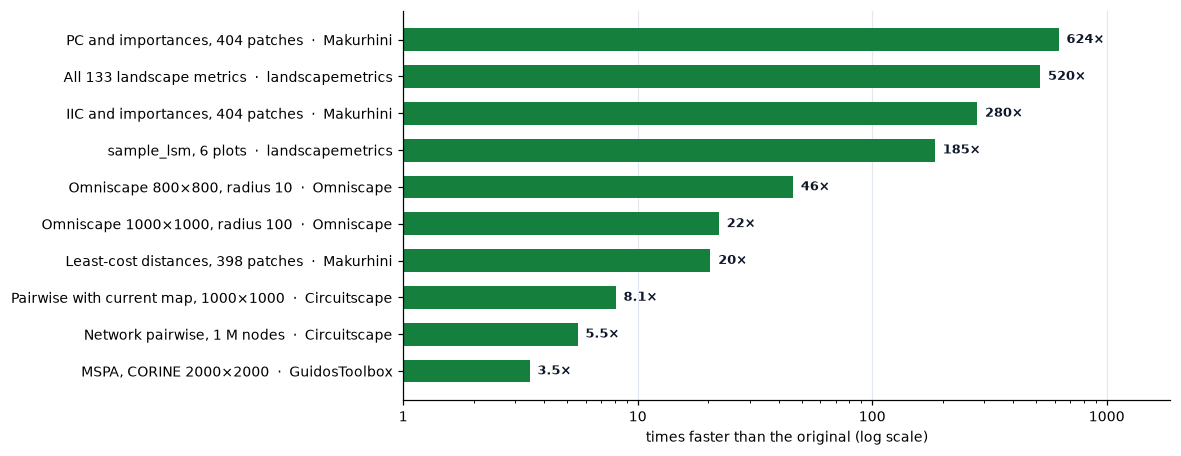
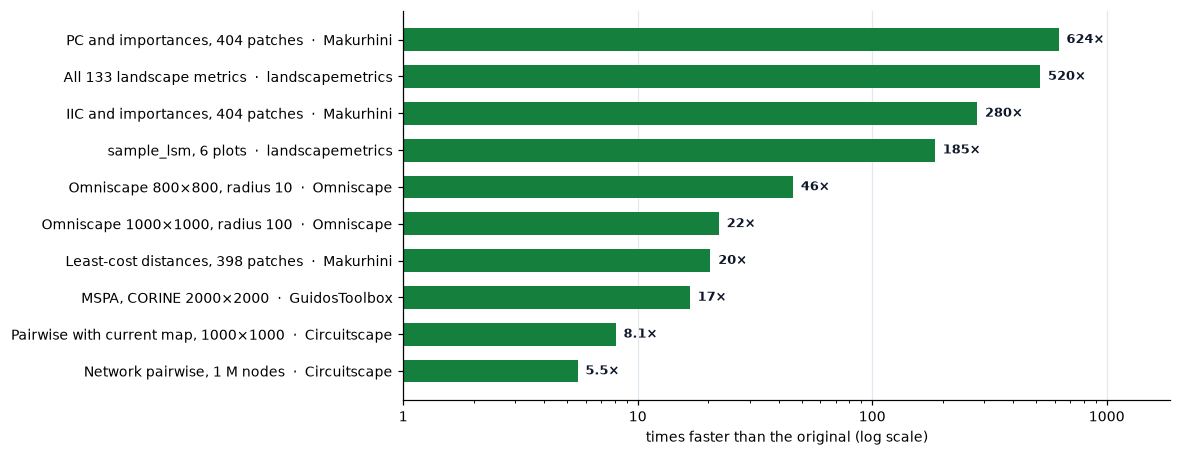
chore: release 0.53.0

diff --git a/tools/make_doc_figures.py b/tools/make_doc_figures.py
@@ -362,7 +362,7 @@ def change_maps():
 
 # Timings of docs/benchmarks.md: (task, reference tool, original [s], landschaft [s]).
 BENCHMARKS = [
-    ("MSPA, CORINE 2000×2000", "GuidosToolbox", 1.21, 0.35),
+    ("MSPA, CORINE 2000×2000", "GuidosToolbox", 1.30, 0.078),
     ("All 133 landscape metrics", "landscapemetrics", 15.6, 0.03),
     ("sample_lsm, 6 plots", "landscapemetrics", 3.7, 0.02),
     ("PC and importances, 404 patches", "Makurhini", 10.6, 0.017),

diff --git a/README.md b/README.md
@@ -14,8 +14,8 @@ FRAGSTATS, Conefor / Makurhini, Circuitscape / Omniscape).
 📘 **Documentation website:** built from `docs/` with `mkdocs build` (see
 [Building these docs](docs/about/docs.md)); open `site/index.html`.
 
-**Current Version (v0.52.0):** Complete reimplementation of all major GuidosToolbox tools:
-* **MSPA**: Morphological Spatial Pattern Analysis (bit-identical to GTB `mspa` v2.3, 5-7x faster), and GTB's MSPA Tiling for maps larger than memory (out of core, identical to GTB).
+**Current Version (v0.53.0):** Complete reimplementation of all major GuidosToolbox tools:
+* **MSPA**: Morphological Spatial Pattern Analysis (bit-identical to GTB `mspa` v2.3, 10-17x faster), and GTB's MSPA Tiling for maps larger than memory (out of core, identical to GTB).
 * **SPA2/3/5/6**: Simplified Pattern Analysis (identical to GTB).
 * **GTN & Connectivity**: Topological Network Components (ECA, DOC), Importance (dPC), and Conefor Sensinode inputs.
 * **Fragmentation & Distance**: Forest Area Density (single & multiscale FAD, $O(1)$ integral images), FOS (Fixed Observation Scale: FAD/FED/FAC in 5 or 6 classes, binary or grayscale input, identical to GTB), Euclidean Distance Transform ($O(N)$), and Directional Spatial Entropy.
@@ -254,41 +254,54 @@ Parameter correspondence with GuidosToolbox:
 ## Versioning
 
 landschaft follows [Semantic Versioning](https://semver.org/); the current version is
-**0.52.0** (`ls.__version__`). While below 1.0, minor versions may change the API.
+**0.53.0** (`ls.__version__`). While below 1.0, minor versions may change the API.
 Changes are listed in [CHANGELOG.md](CHANGELOG.md).
 
 ## Performance
 
-`python tools/benchmark.py --exe <mspa executable>` (bundled example maps), on a laptop Ryzen 7 7730U
-(8 cores, 15 W). The original's time includes its TIFF I/O. landschaft's is in memory:
+`python tools/benchmark.py --exe <mspa executable>` (bundled example maps), on a desktop
+Intel Core i5-13600K (14 cores, 20 threads), both programs on the performance cores,
+the fastest of 10 alternating runs. The original's time includes its TIFF I/O.
+landschaft's is in memory:
 
-| map | FGconn_EdgeWidth | GTB mspa | landschaft, 1 thread | landschaft, 16 threads | identical |
+| map | FGconn_EdgeWidth | GTB mspa | landschaft, 1 thread | landschaft, 19 threads | identical |
 |---|---|---|---|---|---|
-| GTB input.tif 1000×1000 | 8_1 | 0.64 s | 0.11 s | 0.09 s | yes |
-| GTB input.tif 1000×1000 | 4_20 | 0.97 s | 0.14 s | 0.13 s | yes |
-| CORINE forest 2000×2000 | 8_1 | 1.64 s | 0.33 s | 0.29 s | yes |
-| CORINE forest 2000×2000 | 8_5 | 2.04 s | 0.37 s | 0.38 s | yes |
-| CORINE forest 2000×2000 | 4_20 | 2.48 s | 0.45 s | 0.36 s | yes |
+| GTB input.tif 1000×1000 | 8_1 | 0.46 s | 0.040 s | 0.029 s | yes |
+| GTB input.tif 1000×1000 | 8_5 | 0.56 s | 0.065 s | 0.054 s | yes |
+| GTB input.tif 1000×1000 | 4_20 | 0.68 s | 0.079 s | 0.068 s | yes |
+| CORINE forest 2000×2000 | 8_1 | 1.30 s | 0.095 s | 0.078 s | yes |
+| CORINE forest 2000×2000 | 8_5 | 1.53 s | 0.151 s | 0.137 s | yes |
+| CORINE forest 2000×2000 | 4_20 | 1.70 s | 0.213 s | 0.174 s | yes |
+
+A 6000×6000 map (CORINE repeated 3×3) takes GTB 20-26 s and landschaft 1.4-2.3 s.
 
 Where the speed comes from, and why threads help less than one might expect:
 
 * Every Euclidean distance transform in MSPA is only compared with a threshold.
   `sqrt(float(d²)) <= s` is monotone in `d²`, so it is replaced by the exact
-  integer test `d² <= T`. That test is a dilation by a digital disk, computed
-  with clipped column distances and two sweeps per row, instead of a full EDT.
+  integer test `d² <= T`: a dilation by a digital disk. For the usual radii it
+  runs on rows packed into 64-bit words (shift-ORs over the disk's rows, 64 pixels
+  per operation); large radii use clipped column distances and two sweeps per row.
+* The per-pixel operations between the stages (masks, saturated arithmetic,
+  shifts, thresholds) use SSE2 on 16 pixels at a time.
+* The intermediate images reuse each other's memory within a call instead of
+  asking the operating system for fresh pages each time.
+* With edge width 1 the geodesic distance cannot select any pixel (every reached
+  pixel is at least 1 away, above the threshold), so it is skipped; otherwise
+  only the pixels the front reaches are touched.
 * Hole filling, reconstruction and labelling use run-length union-find instead of
   pixel queues.
 * The geodesic distance, the anchored thinning and the watershed are
   *order-dependent* FIFO propagations. Their queue order decides ties, so they
-  stay sequential to remain bit-exact. They are the critical path of one image.
-* Independent stages run concurrently as tasks. OpenMP data-parallel loops are
-  enabled only for maps above 16 Mpx: for smaller maps, the short parallel regions
-  cost more than they save, because idle OpenMP workers keep spinning and slow
-  down the sequential stages that follow.
+  stay sequential to remain bit-exact. They are the critical path of one image,
+  which is why more threads save only 10-30 % on one map.
+* Independent stages run concurrently as tasks; OpenMP data-parallel loops run
+  for maps above 16 Mpx (1 Mpx for heavy scans).
 
-For many images the throughput scales like independent processes. On the laptop
-above, 16 workers give about 4× (the CPU drops its clock under all-core load).
-Expect more on workstations and servers.
+For many images the throughput scales like independent processes: use
+`mspa_batch`. On hybrid CPUs (performance and efficiency cores) Windows may move a
+busy background process to the efficiency cores, which roughly doubles any run
+time; benchmark in the foreground and compare runs made side by side.
 
 ## Exactness and tests
 
@@ -346,13 +359,11 @@ Set `LANDSCHAFT_PROFILE=1` to print the time of every MSPA stage.
 ## Limitations
 
 * MSPA is a global operator: the whole map must fit in memory (≈30 bytes/pixel).
-  There is no tiling yet. GTB's "MSPA tiling" is approximate by design.
+  `mspa_tiled` reproduces GTB's MSPA Tiling for larger maps, which is approximate
+  near the tile seams by design.
 * The original stores geodesic offsets in 16-bit integers and distances in 32 bits.
   landschaft reproduces them. For maps with a side of 46,000 px or more, the fast
   distance path is disabled and the original arithmetic is used.
-* Eigen is not used yet: MSPA's hot paths are queue propagations and byte
-  operations that the compiler already vectorises. Eigen will be considered for
-  GTB tools with floating-point kernels (moving windows, distances, costs).
 
 ## License and credits
 

diff --git a/docs/benchmarks.md b/docs/benchmarks.md
@@ -39,9 +39,10 @@ tables below (logarithmic scale). The original's time is its own run,
 including its input and output where noted; landschaft is timed in memory.
 
 !!! info "How these were measured"
-    The MSPA table was measured for this page with `tools/benchmark.py` on a
+    The MSPA table was measured with `tools/benchmark.py` (version 0.53) on a
     desktop Intel Core i5-13600K (14 cores, 20 threads, 64 GB, Windows 11),
-    the best of several runs. The other timings were recorded in the
+    the fastest of 10 alternating runs, with both programs kept on the
+    performance cores. The other timings were recorded in the
     [changelog](about/changelog.md) when each tool was written, with the
     version given ("Since"). Times depend on the computer, the map and the options: treat them as
     orders of magnitude.
@@ -51,22 +52,33 @@ including its input and output where noted; landschaft is timed in memory.
 Against GuidosToolbox's `mspa` executable (v2.3, whose time includes reading
 and writing its TIFF files) on its sample map and on the CORINE forest map;
 landschaft with 1 thread and with the default 19. Every output was compared
-pixel by pixel.
+pixel by pixel. landschaft is 10 to 17 times faster.
 
 | Map | Connectivity, edge width | GuidosToolbox | 1 thread | 19 threads | Identical |
 |---|---|---|---|---|---|
-| Sample, 1000² | 8, 1 | 0.45 s | 0.09 s | 0.08 s | yes |
-| Sample, 1000² | 8, 5 | 0.55 s | 0.11 s | 0.15 s | yes |
-| Sample, 1000² | 4, 20 | 0.66 s | 0.20 s | 0.16 s | yes |
-| CORINE, 2000² | 8, 1 | 1.21 s | 0.49 s | 0.35 s | yes |
-| CORINE, 2000² | 8, 5 | 1.41 s | 0.59 s | 0.41 s | yes |
-| CORINE, 2000² | 4, 20 | 1.69 s | 0.65 s | 0.49 s | yes |
+| Sample, 1000² | 8, 1 | 0.46 s | 0.040 s | 0.029 s | yes |
+| Sample, 1000² | 8, 5 | 0.56 s | 0.065 s | 0.054 s | yes |
+| Sample, 1000² | 4, 20 | 0.68 s | 0.079 s | 0.068 s | yes |
+| CORINE, 2000² | 8, 1 | 1.30 s | 0.095 s | 0.078 s | yes |
+| CORINE, 2000² | 8, 5 | 1.53 s | 0.151 s | 0.137 s | yes |
+| CORINE, 2000² | 4, 20 | 1.70 s | 0.213 s | 0.174 s | yes |
+
+At scale, the CORINE map repeated 3 × 3 (6000 × 6000, 36 million pixels)
+takes GuidosToolbox 20 to 26 s and landschaft 1.4 to 2.3 s, again with
+identical outputs.
 
 MSPA's longest steps (geodesic distances, thinning, watershed) are ordered
-propagations that must run in sequence to stay bit-exact, so one map gains
-little from many threads, and on a small map they can even cost a little time. Many maps gain fully: run them side by side with
+propagations that must run in sequence to stay bit-exact, so one map takes
+only 10 to 30 % less time with more threads. Many maps gain fully: run them side by side with
 [`mspa_batch`](api/batch.md#landschaft.mspa_batch) or
 [`batch`](api/batch.md#landschaft.batch).
+
+!!! note "Hybrid processors"
+    On processors with performance and efficiency cores (Intel 12th
+    generation and later), Windows may move a busy process to the slower
+    efficiency cores, especially when it runs in the background; any program
+    then takes up to twice as long. Keep the terminal in the foreground for
+    timings, and compare runs made side by side.
 
 ### Landscape metrics
 

diff --git a/CHANGELOG.md b/CHANGELOG.md
@@ -6,6 +6,33 @@ between minor versions.
 
 ## [Unreleased]
 
+## [0.53.0] - 2026-09-27
+
+### Changed
+- MSPA is 3 times faster than in 0.52 (10-17 times faster than GuidosToolbox's `mspa`),
+  with the same bits: on the 2000×2000 CORINE map 95 ms instead of 312 ms with one
+  thread and 78 ms instead of 239 ms with the default threads (performance cores).
+  - The disk dilation behind every thresholded distance works on rows packed into
+    64-bit words for radii up to 24 (4× faster).
+  - The per-pixel operations between the stages (masks, saturated arithmetic, shifts,
+    levels, thresholds, the missing-data and input checks) use SSE2; MSVC left them
+    scalar.
+  - Large buffers are reused within a call (`gtb::PoolScope`) instead of being
+    requested from the operating system, which zeroed fresh pages for each of the
+    ~85 intermediate images.
+  - The geodesic distance is skipped for edge width 1, where it provably selects no
+    pixel, touches only the pixels its front reaches, returns MSPA's 0/1 band directly
+    and keeps each queued pixel's distance instead of recomputing it every round.
+  - The external boundary of the core is computed once for the openings and the
+    perforations; independent steps of the preprocessing, the edges and the corridors
+    run as parallel tasks; the watershed skips blocks of seeds without empty
+    neighbours; the thinning's initial scan runs in parallel from 1 Mpx.
+- `tools/benchmark.py` alternates the one-thread and default-thread runs and reports
+  the fastest of each (`--repeats`). Run one after the other, the operating system
+  moving a busy process to the efficiency cores of a hybrid CPU made the later runs
+  look slower, e.g. more threads slower than one; side by side, the default threads
+  were faster in 178 of 180 paired runs.
+
 ## [0.52.0] - 2026-09-27
 
 ### Changed
